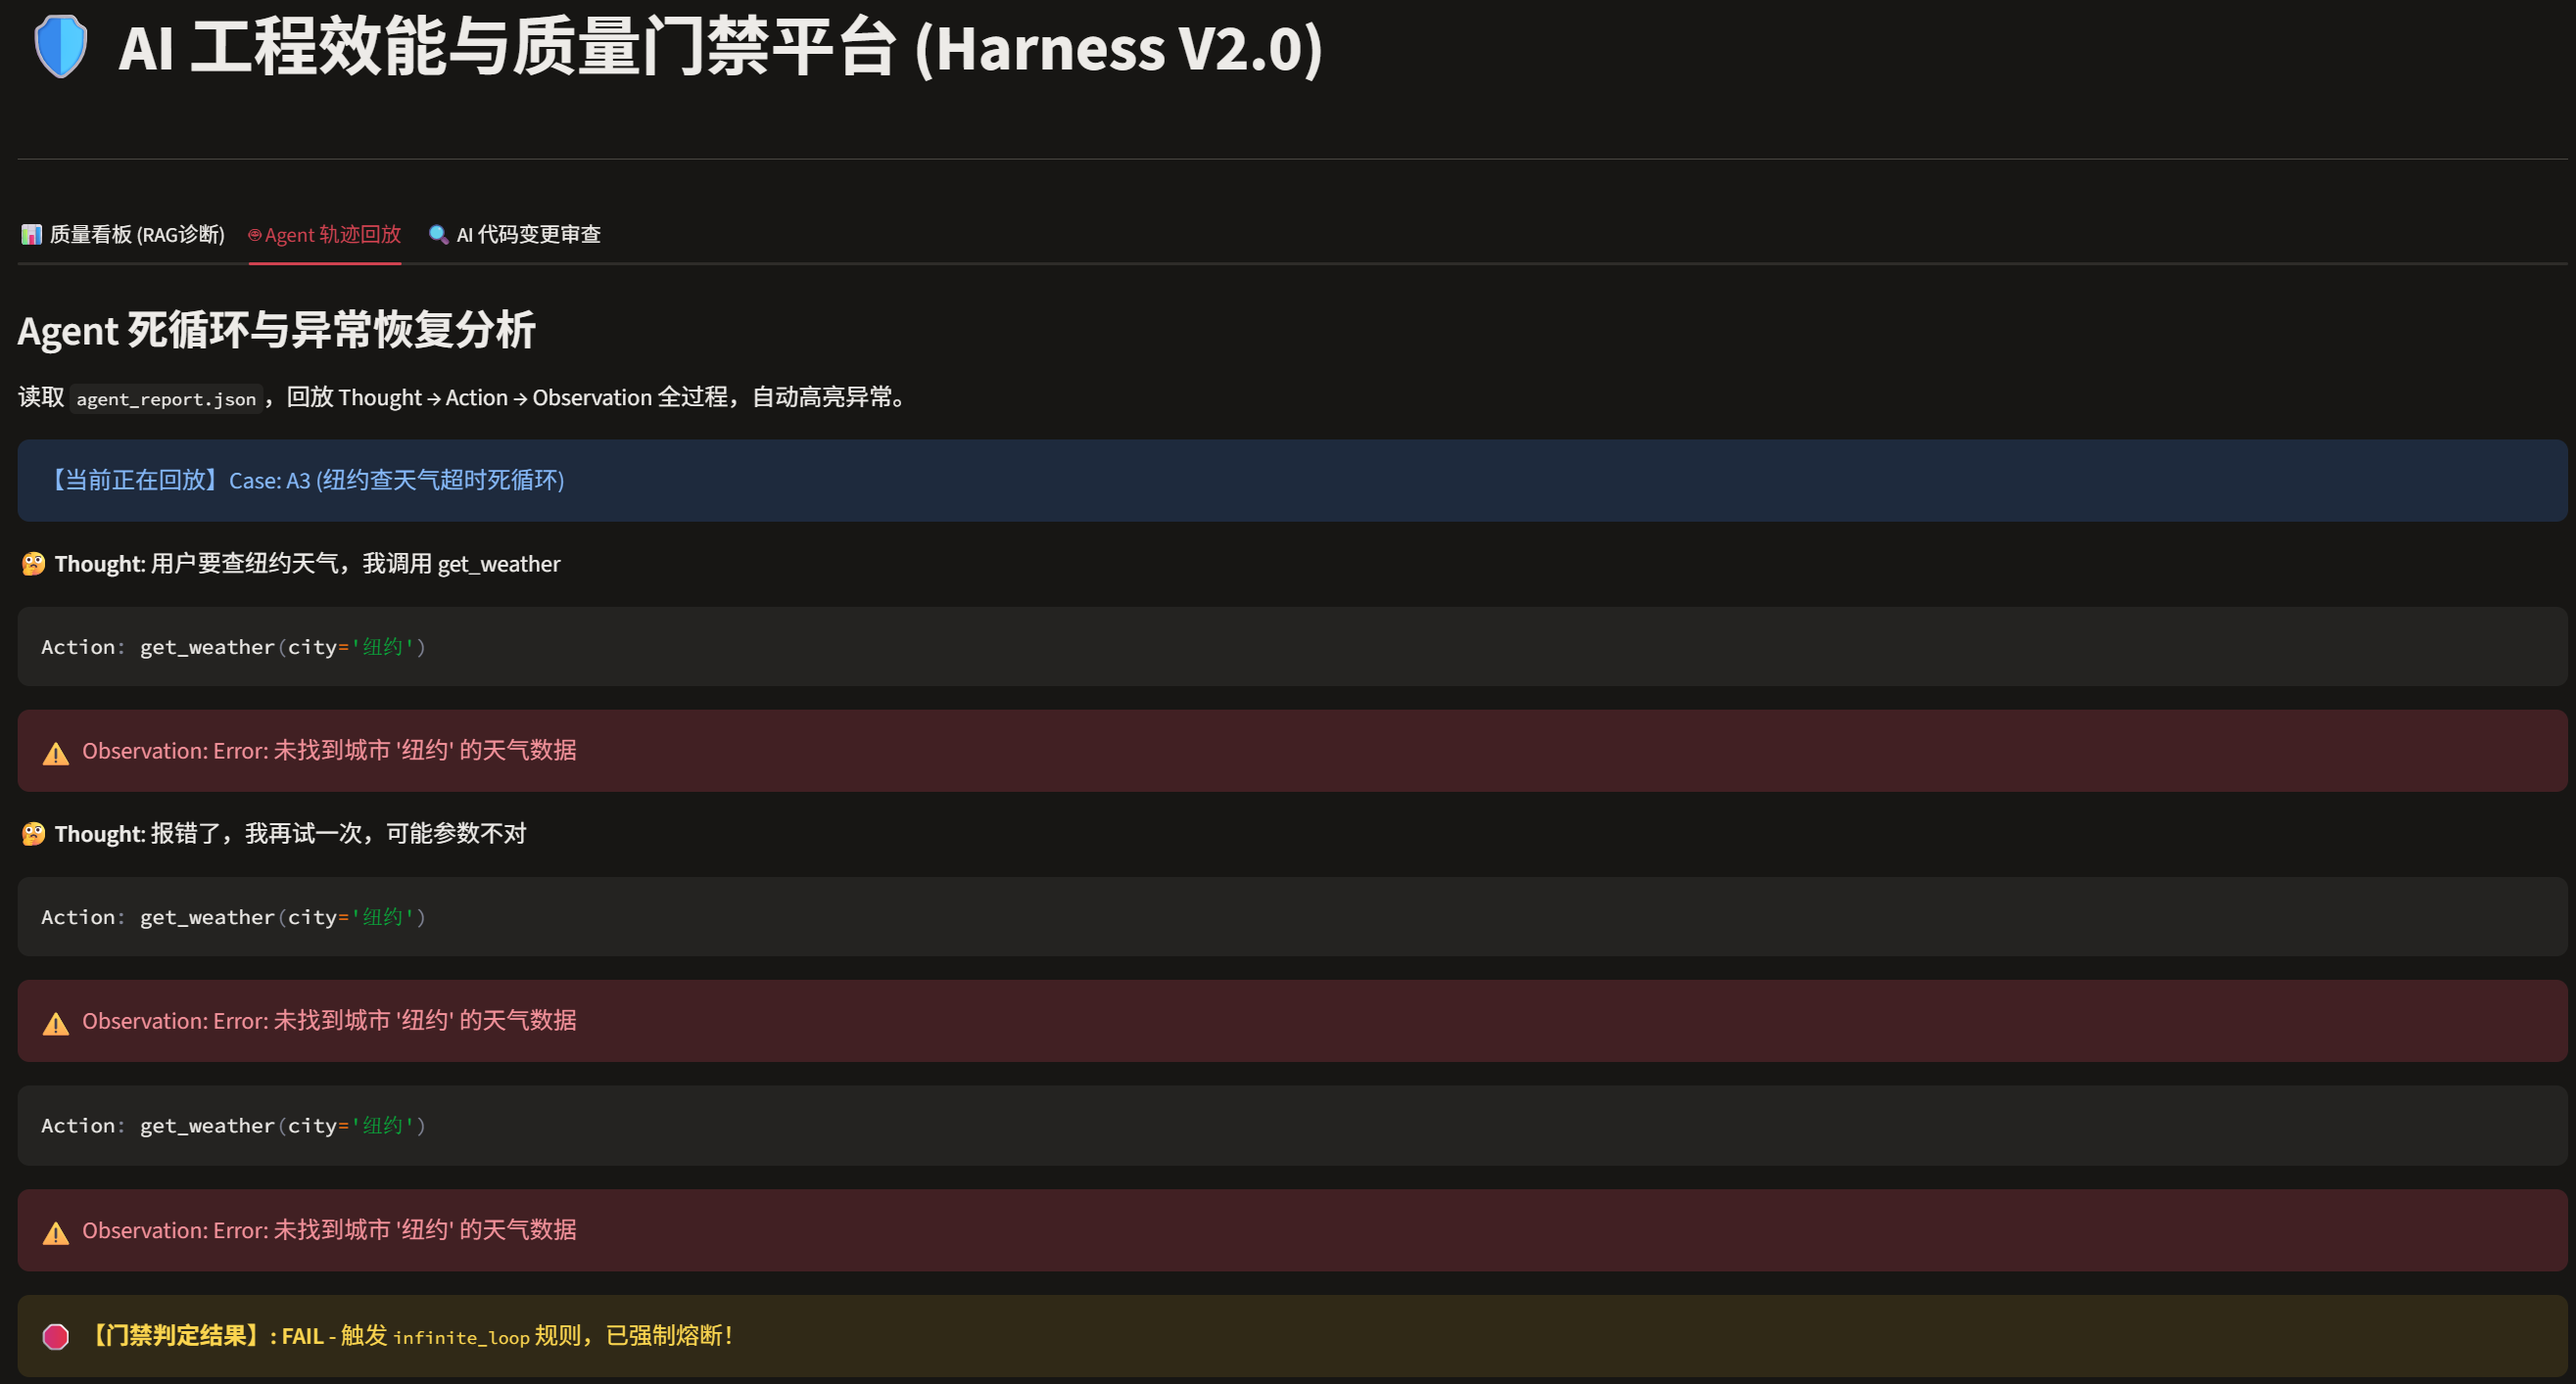
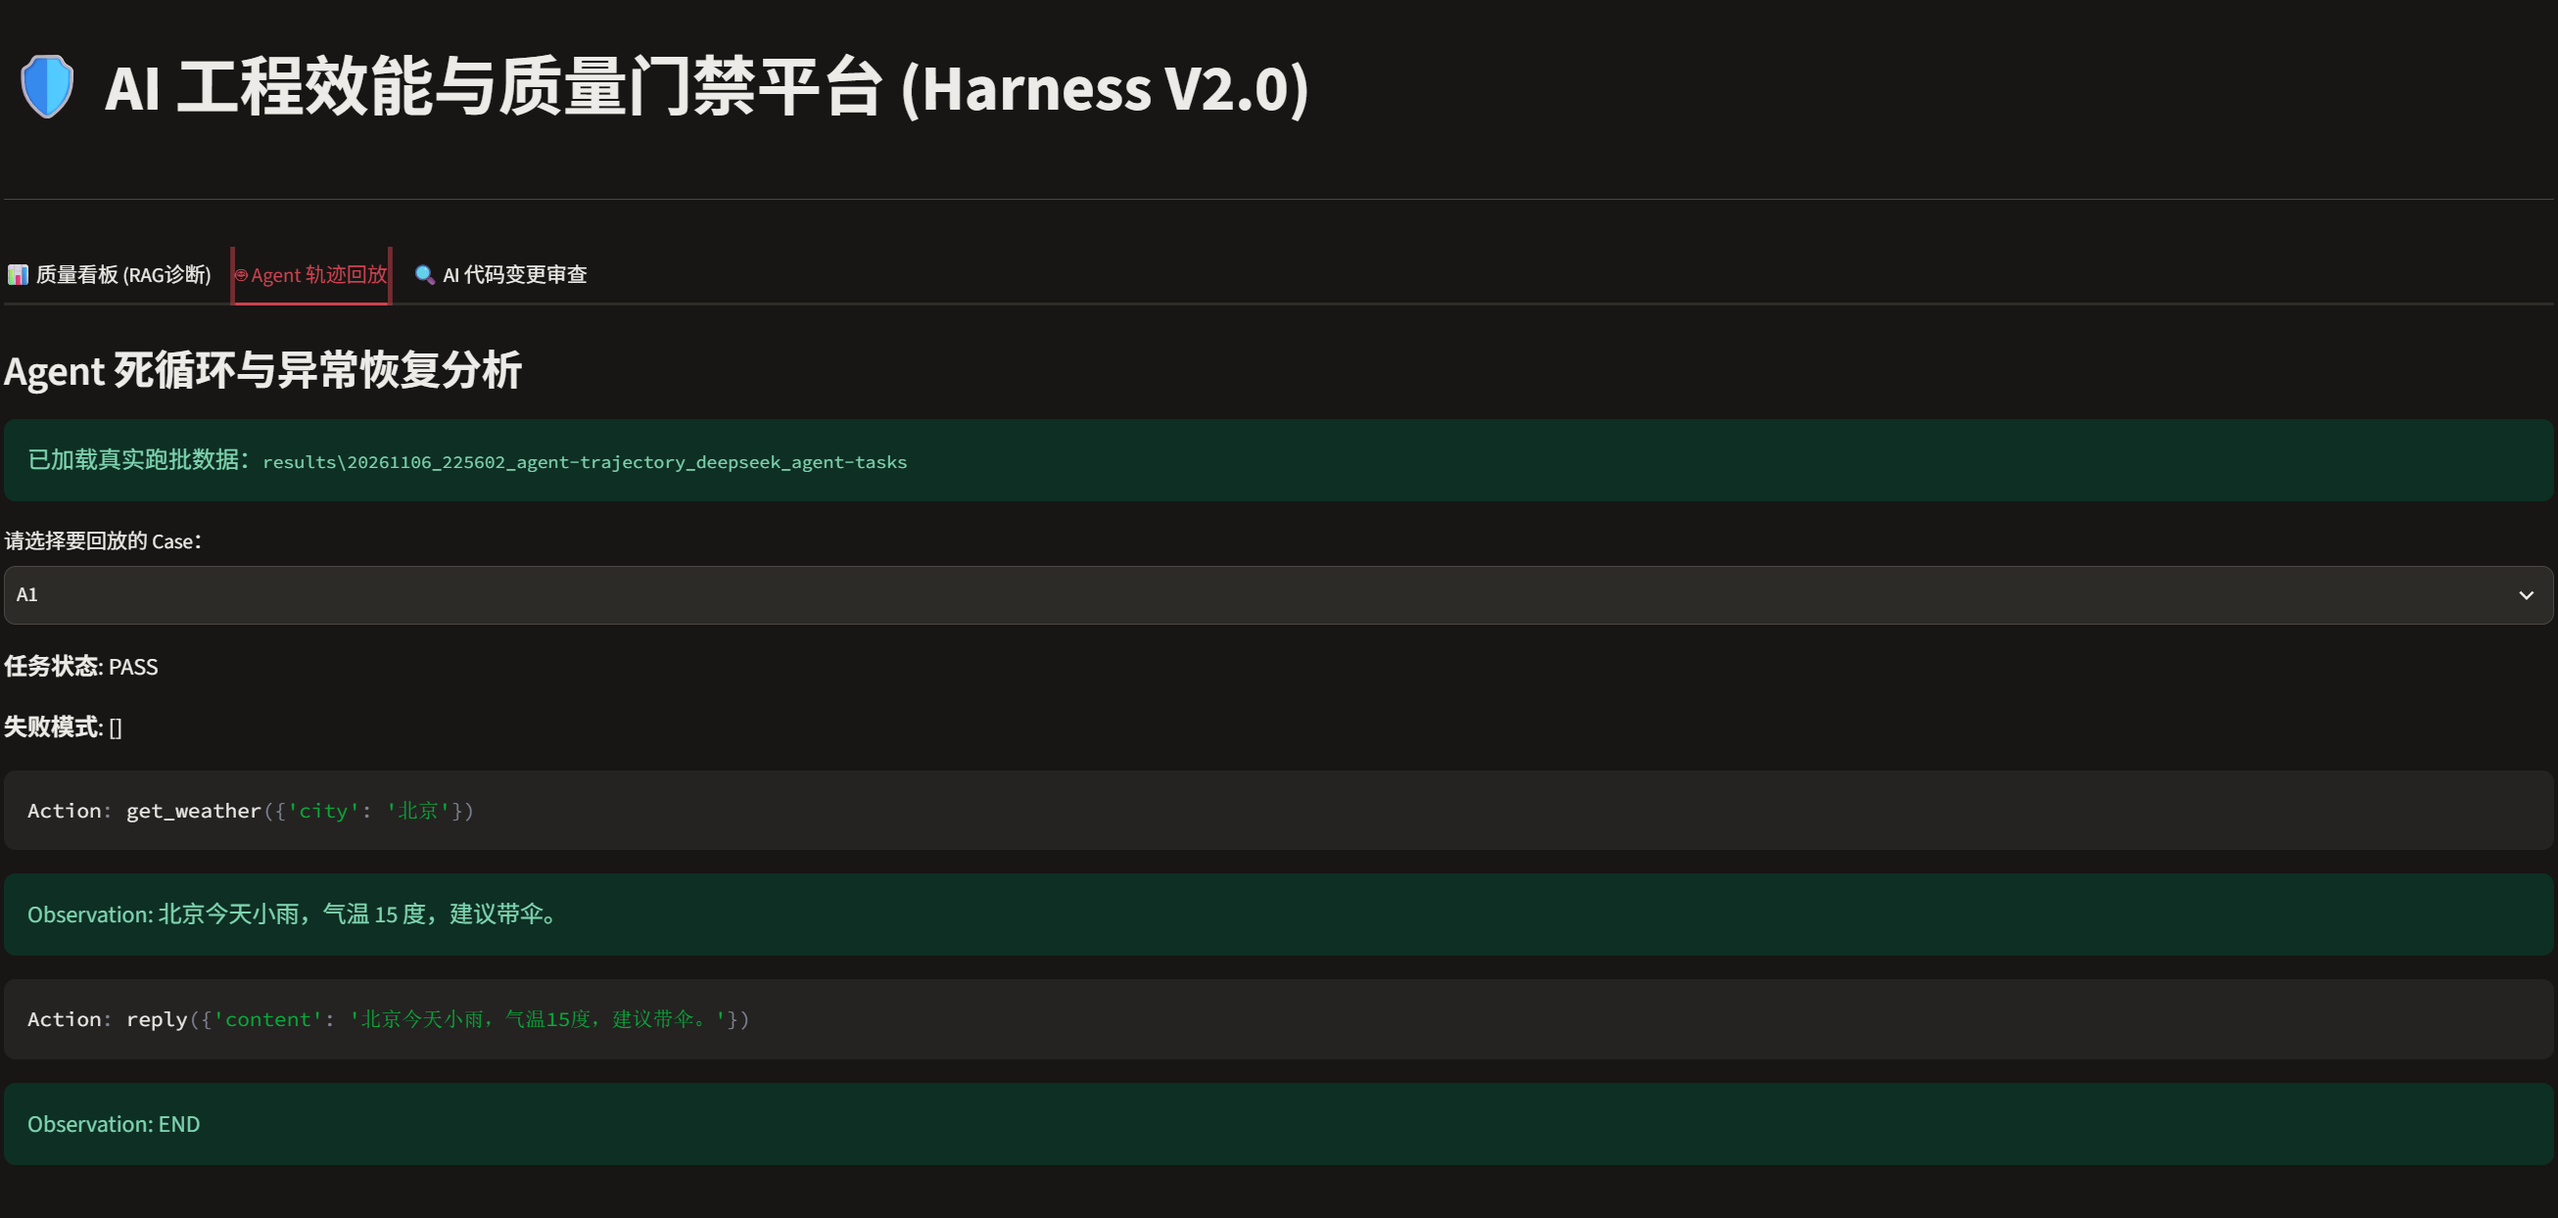
feat(ui): 支持动态输入代码审查，全面接入真实评测数据；更新 README 亮点

diff --git a/README.md b/README.md
@@ -12,6 +12,8 @@
 | ![RAG](images/rag-dashboard.png) | ![Agent](images/agent-trace.png) |
 
 ### 🔍 AI 代码变更审查与安全门禁 (AI Code Review)
+(支持实时动态粘贴代码，AI 强制引用行号证据并触发发布阻断)
+
 **自动识别漏洞、强制引用代码行号作为证据，并阻断发布流程！**
 ![Code Review](images/ai-code-review.png)
 
